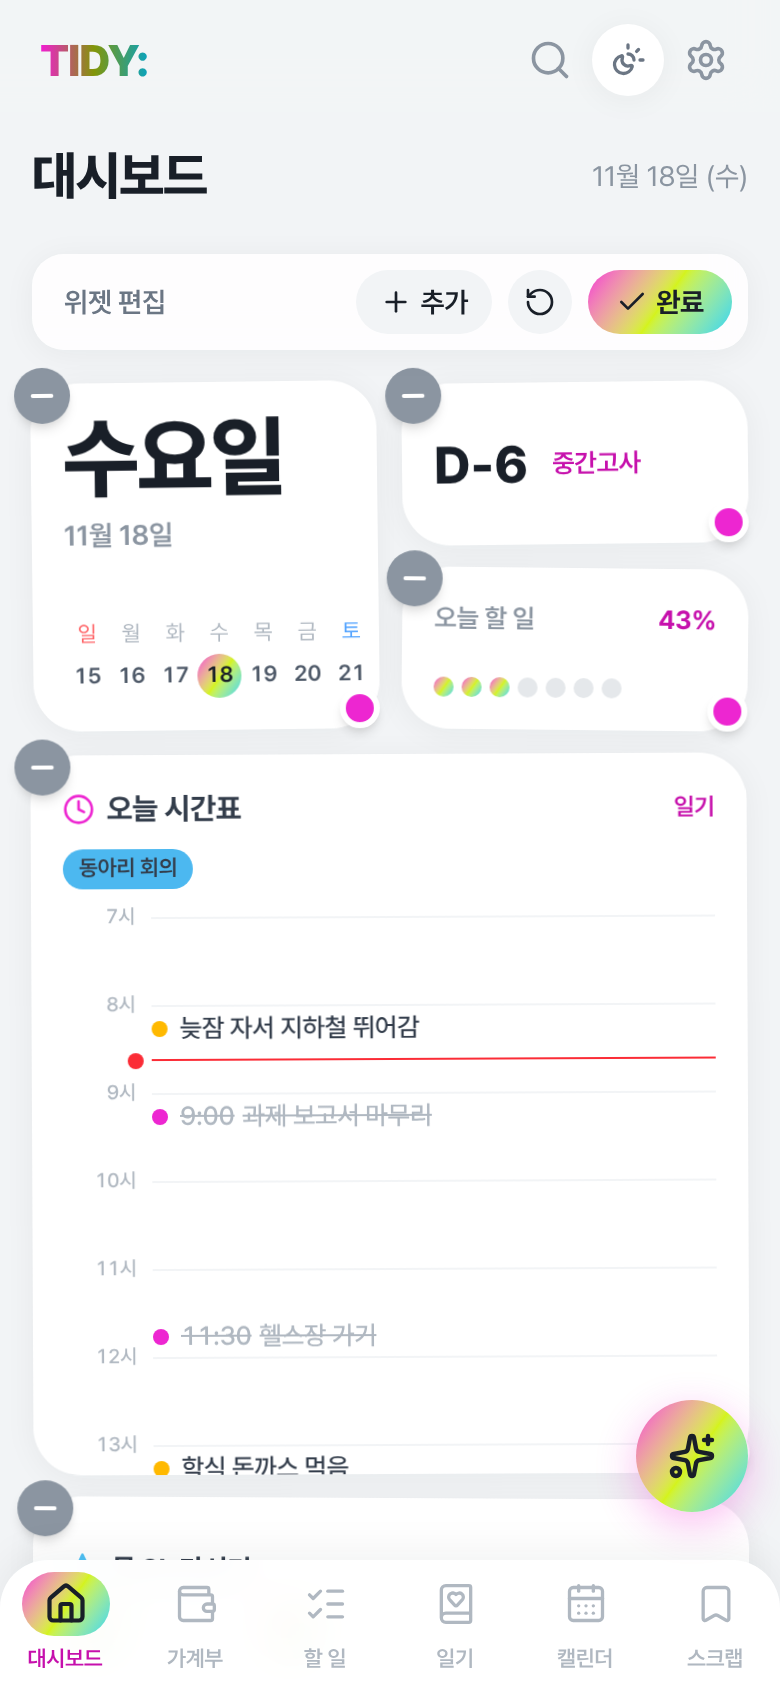
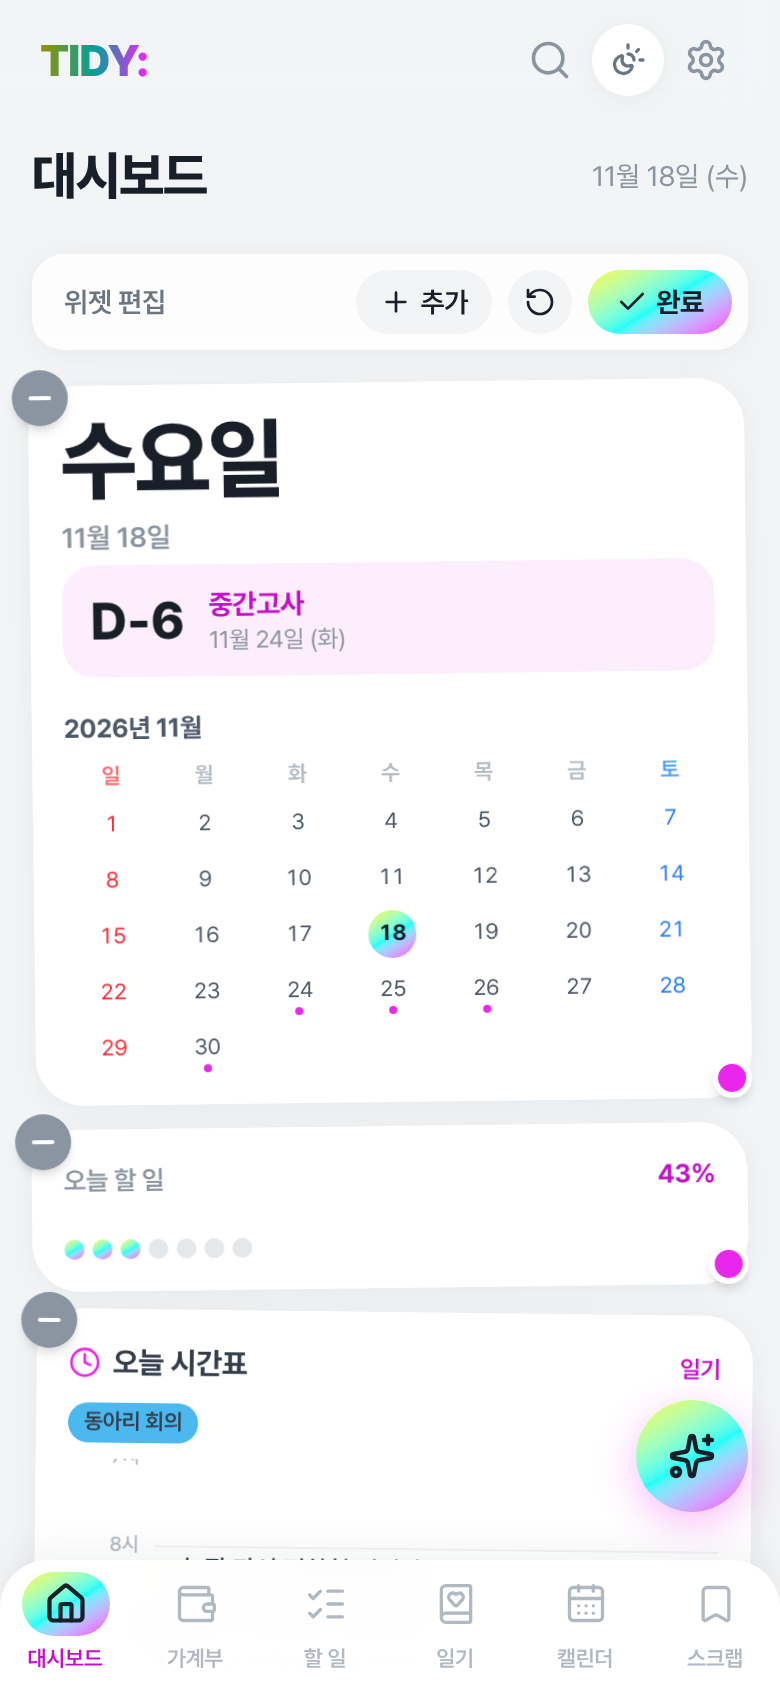
대시보드: 폰 기본 배치를 한 줄씩 크게(B안)로, 날짜 위젯 빈 곳에 디데이
Claude-Session: https://claude.ai/code/session_01Ji86Qt1CtXcVnhPs7RAwSE

diff --git a/src/components/dashboard/MiniWidgets.tsx b/src/components/dashboard/MiniWidgets.tsx
@@ -49,10 +49,12 @@ interface DateProps {
   box: WidgetBox
   /** 이번 달 일정 (점으로 표시) */
   events: CalendarEvent[]
+  /** 다가오는 일정 (디데이 위젯이 없고 칸이 넉넉하면 날짜와 달력 사이에 보인다) */
+  upcoming?: CalendarEvent
 }
 
 /** 큰 요일·날짜, 칸이 넉넉하면 이번 달 달력까지 */
-export function DateWidget({ today, box, events }: DateProps) {
+export function DateWidget({ today, box, events, upcoming }: DateProps) {
   const d = parseDateKey(today)
   const showCal = box.py >= 250 && box.px >= 150
   const y = d.getFullYear()
@@ -86,6 +88,17 @@ export function DateWidget({ today, box, events }: DateProps) {
               </span>
             </span>
           ))}
+        </div>
+      )}
+      {showCal && upcoming && !box.kinds.includes('dday') && box.py >= 330 && (
+        <div className="mt-auto flex items-center gap-3 rounded-2xl bg-grad-soft px-3.5 py-2.5">
+          <span className="text-[26px] leading-none font-extrabold text-slate-900 tabular-nums">{ddayLabel(daysUntil(today, upcoming.startDate))}</span>
+          <span className="min-w-0 flex-1">
+            <span className="block truncate text-sm font-bold text-brand-600">{upcoming.title}</span>
+            <span className="block text-xs text-slate-500">
+              {Number(upcoming.startDate.slice(5, 7))}월 {Number(upcoming.startDate.slice(8))}일 ({WEEK[parseDateKey(upcoming.startDate).getDay()]})
+            </span>
+          </span>
         </div>
       )}
       {showCal && (

diff --git a/src/lib/dashLayout.ts b/src/lib/dashLayout.ts
@@ -39,13 +39,13 @@ export const ALL_KINDS = Object.keys(WIDGET_INFO) as DashWidgetKind[]
 /** 가장 큰 세로 칸 수 */
 export const MAX_H = 12
 
+// 폰 기본 배치: 위젯을 한 줄씩 크게 (사용자가 고른 B안, 2026-11-18). 디데이는 날짜 위젯 안에 보인다
 const PHONE: DashWidget[] = [
-  { kind: 'date', w: 2, h: 2 },
-  { kind: 'dday', w: 2, h: 1 },
-  { kind: 'progress', w: 2, h: 1 },
-  { kind: 'timeline', w: 4, h: 4 },
+  { kind: 'date', w: 4, h: 4 },
+  { kind: 'progress', w: 4, h: 1 },
+  { kind: 'timeline', w: 4, h: 5 },
+  { kind: 'todos', w: 4, h: 4 },
   { kind: 'habitWeek', w: 4, h: 3 },
-  { kind: 'todos', w: 4, h: 3 },
   { kind: 'tracker', w: 4, h: 2 },
   { kind: 'money', w: 4, h: 4 },
   { kind: 'ai', w: 4, h: 3 },
@@ -141,7 +141,7 @@ export function removeWidget(list: DashWidget[], kind: DashWidgetKind): DashWidg
 /** 빠진 위젯을 기본 크기로 맨 앞에 다시 넣는다 */
 export function addWidget(list: DashWidget[], kind: DashWidgetKind, cols: GridCols): DashWidget[] {
   if (list.some((x) => x.kind === kind)) return list
-  const base = defaultLayout(cols).find((x) => x.kind === kind) ?? { kind, w: cols, h: 3 }
+  const base = defaultLayout(cols).find((x) => x.kind === kind) ?? { kind, w: cols, h: WIDGET_INFO[kind].minH }
   return [{ ...base }, ...list]
 }
 

diff --git a/src/components/dashboard/WidgetGrid.tsx b/src/components/dashboard/WidgetGrid.tsx
@@ -24,6 +24,8 @@ export interface WidgetBox {
   px: number
   py: number
   cols: GridCols
+  /** 지금 대시보드에 있는 위젯들 (겹치는 내용을 안 보이게) */
+  kinds: DashWidgetKind[]
 }
 
 interface WidgetGridProps {
@@ -97,7 +99,7 @@ export default function WidgetGrid({ editing, onEditingChange, render }: WidgetG
   const gap = cols === 4 ? 12 : 16
   const colW = width > 0 ? (width - gap * (cols - 1)) / cols : 80
   const rowH = cols === 4 ? Math.round(colW) : Math.round(Math.min(colW, 64))
-  const box = (w: DashWidget): WidgetBox => ({ w: w.w, h: w.h, px: w.w * colW + (w.w - 1) * gap, py: w.h * rowH + (w.h - 1) * gap, cols })
+  const box = (w: DashWidget): WidgetBox => ({ w: w.w, h: w.h, px: w.w * colW + (w.w - 1) * gap, py: w.h * rowH + (w.h - 1) * gap, cols, kinds: list?.map((x) => x.kind) ?? [] })
 
   // ── 미끄러지듯 옮기기 (FLIP): 바뀌기 전 자리를 기억했다가 새 자리에서 거꾸로 당겨 놓고 풀어 준다 ──
   const rects = useRef(new Map<DashWidgetKind, DOMRect>())

diff --git a/tests/unit/dashLayout.test.ts b/tests/unit/dashLayout.test.ts
@@ -36,7 +36,7 @@ describe('대시보드 위젯 배치', () => {
   it('뺀 위젯을 다시 넣으면 맨 앞에 기본 크기로', () => {
     const l = removeWidget(defaultLayout(4), 'dday')
     expect(l.some((w) => w.kind === 'dday')).toBe(false)
-    expect(addWidget(l, 'dday', 4)[0]).toEqual({ kind: 'dday', w: 2, h: 1 })
+    expect(addWidget(l, 'dday', 4)[0]).toMatchObject({ kind: 'dday' })
   })
 
   it('디데이와 잔디', () => {

diff --git a/src/pages/DashboardPage.tsx b/src/pages/DashboardPage.tsx
@@ -129,7 +129,7 @@ export default function DashboardPage() {
     const list = todos ?? []
     switch (kind) {
       case 'date':
-        return <DateWidget today={today} box={box} events={events} />
+        return <DateWidget today={today} box={box} events={events} upcoming={upcoming} />
       case 'timeline':
         return <TimelineWidget today={today} todos={list} diary={diary} events={events} />
       case 'progress':

diff --git a/docs/개발-기록-조각/project-thread-3trehu.md b/docs/개발-기록-조각/project-thread-3trehu.md
@@ -1,5 +1,5 @@
 ## 6
-| 2026-11-18 | #? | 기능 | 대시보드를 아이패드 홈 화면 같은 위젯 격자로 바꿈: 날짜·달력, 오늘 시간표, 할 일 진행 점, 할 일 목록, 습관 일주일, 할 일 기록 잔디, 다가오는 일정 + 예전 가계부·AI·월급날·스크랩 카드. 꾹 누르면 편집(흔들림, 끌어 옮기기, 모서리 점으로 크기, 빼기·추가·처음대로), 옮기면 다른 위젯이 미끄러지듯 밀려남. 폰 4칸 · 중간 8칸 · 넓게 12칸마다 배치를 이 기기에 따로 저장 | 검토 중 |
+| 2026-11-18 | #? | 기능 | 대시보드를 아이패드 홈 화면 같은 위젯 격자로 바꿈: 날짜·달력, 오늘 시간표, 할 일 진행 점, 할 일 목록, 습관 일주일, 할 일 기록 잔디, 다가오는 일정 + 예전 가계부·AI·월급날·스크랩 카드. 꾹 누르면 편집(흔들림, 끌어 옮기기, 모서리 점으로 크기, 빼기·추가·처음대로), 옮기면 다른 위젯이 미끄러지듯 밀려남. 폰 4칸 · 중간 8칸 · 넓게 12칸마다 배치를 이 기기에 따로 저장. 폰 기본은 한 줄씩 크게(B안), 디데이 위젯이 없으면 날짜 위젯 안에 다가오는 일정 디데이 | 검토 중 |
 
 ## 4-6
 | 대시보드 위젯 편집 | 위젯을 꾹 누르거나 연필 버튼 → 끌어서 옮기기, 오른쪽 아래 점으로 크기 바꾸기, − 로 빼기, 추가로 다시 넣기. 배치는 격자 칸 수(4 · 8 · 12)마다 이 기기에 저장 | 🧪 | #? |
